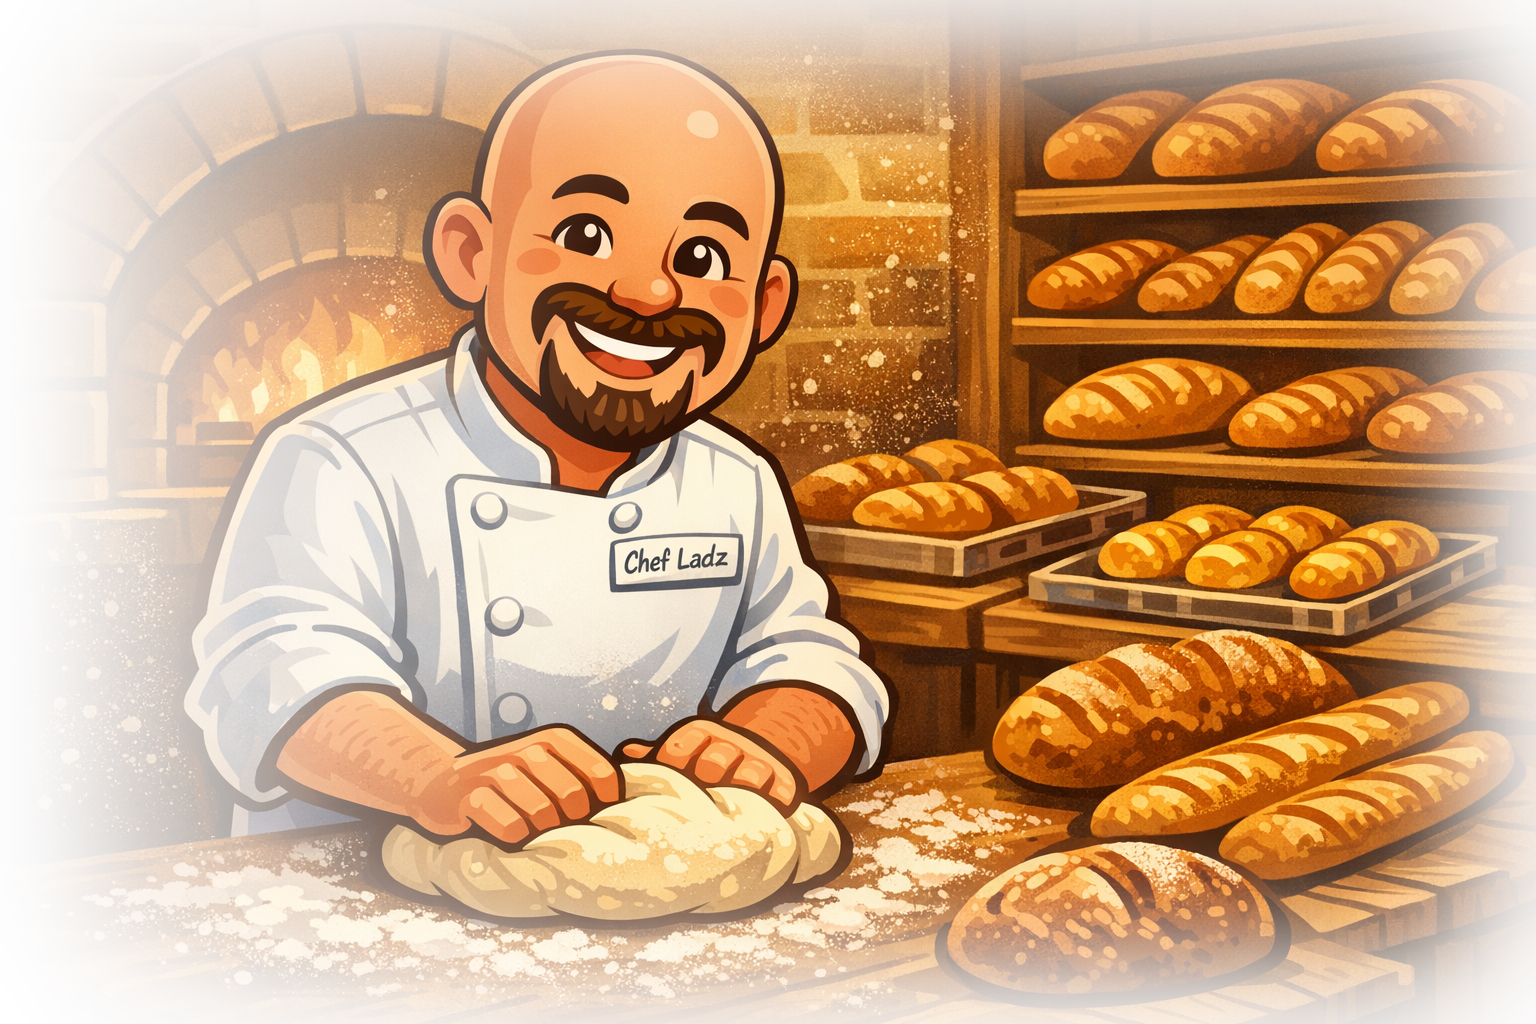
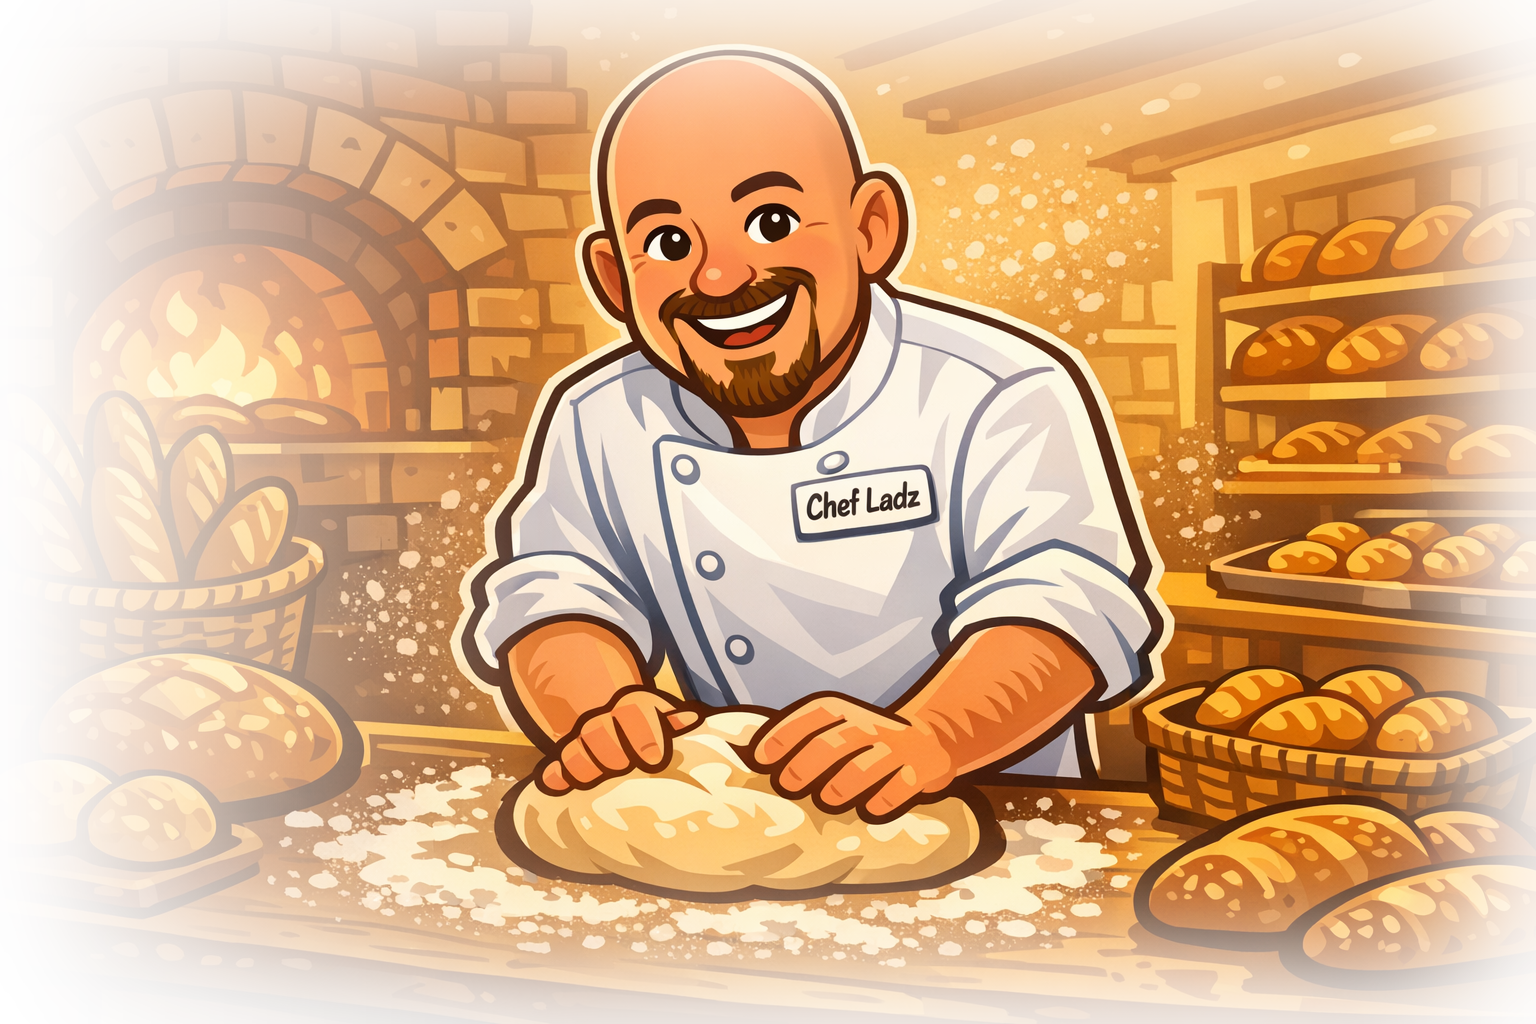
Thinner facial hair; matching Chef Ladz bakery scenes on cover & close (close: holding fresh loaf)

diff --git a/index.html b/index.html
@@ -49,7 +49,10 @@
   .cover h1{color:#fff;font-size:56px;font-weight:800;letter-spacing:-.5px}
   .cover .sub{color:#f1e6da;font-size:20px;margin-top:16px;max-width:640px;line-height:1.5}
   .cover .meta{margin-top:32px;display:flex;gap:28px;color:#e9d8c5;font-size:13.5px;font-weight:600;flex-wrap:wrap}
-  .cover .bakeryhero{position:absolute;right:0;top:50%;transform:translateY(-50%);height:104%;width:auto;max-width:58%;object-fit:contain;z-index:1;pointer-events:none}
+  .cover .bakeryhero,.closing .bakeryhero{position:absolute;right:0;top:50%;transform:translateY(-50%);height:104%;width:auto;max-width:58%;object-fit:contain;z-index:1;pointer-events:none}
+  .closing .closebubble{position:absolute;right:30%;top:20%;z-index:4;background:#fff;color:#0f7a35;font-family:'Poppins',sans-serif;font-weight:800;font-size:20px;padding:14px 22px;border-radius:16px;box-shadow:0 10px 28px rgba(0,0,0,.4);animation:pop 3.4s ease-in-out infinite}
+  .closing .closebubble::after{content:"";position:absolute;left:50%;bottom:-12px;transform:translateX(-50%);border-width:13px 11px 0 11px;border-style:solid;border-color:#fff transparent transparent transparent}
+  @media (prefers-reduced-motion:reduce){.closing .closebubble{animation:none}}
   /* chef mascot + speech bubble (bottom-right corner) */
   .mascot{position:absolute;right:38px;bottom:0;z-index:3;display:flex;flex-direction:column;align-items:center;width:300px;pointer-events:none}
   .mascot .chef{width:300px;height:auto;display:block;filter:drop-shadow(0 14px 26px rgba(0,0,0,.45));animation:bob 3.4s ease-in-out infinite}
@@ -144,7 +147,7 @@
   .hint{position:fixed;bottom:22px;right:24px;color:rgba(255,255,255,.55);font-size:12px;z-index:50}
   @media (max-width:760px){
     .pad{padding:24px 20px}.brandbar,.foot{padding-left:20px;padding-right:20px}
-    .cover h1{font-size:34px}.cover .bakeryhero{opacity:.28;max-width:80%}
+    .cover h1{font-size:34px}.cover .bakeryhero,.closing .bakeryhero{opacity:.28;max-width:80%}.closing .closebubble{display:none}
     .mascot{width:200px;right:16px}.mascot .chef{width:200px}.mascot .bubble{font-size:14px;margin-right:60px;padding:10px 14px}
     .grid2,.grid3,.statrow,.steps{grid-template-columns:1fr}.gallery{grid-template-columns:repeat(2,1fr)}
     h2.title{font-size:25px}.cols2{column-count:1}
@@ -383,10 +386,8 @@ slides.push(`<section class="slide closing">
       <span class="bn ghost">③ Support a vendor who's committed to exceptional customer service &amp; quality</span>
     </div>
   </div>
-  <div class="mascot" style="width:450px">
-    <div class="bubble">Any questions?</div>
-    <img class="chef" src="img/boss_questions.png" style="width:450px" alt="Chef Ladz">
-  </div>
+  <img class="bakeryhero" src="img/bakery_close.png" alt="Chef Ladz with a fresh loaf">
+  <div class="closebubble">Any questions?</div>
 </section>`);
 
 const stage=document.getElementById('stage');